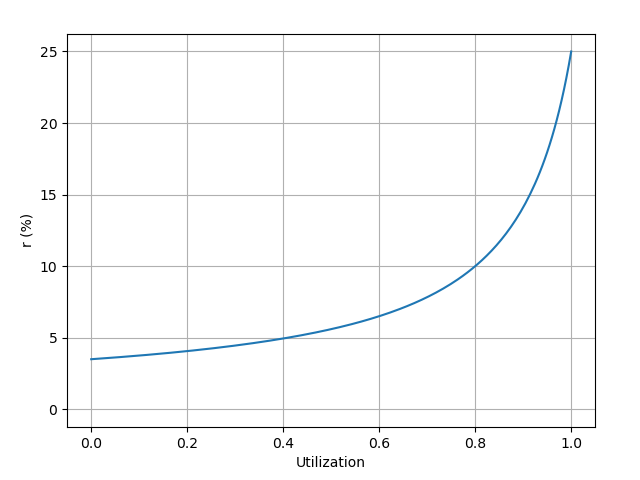
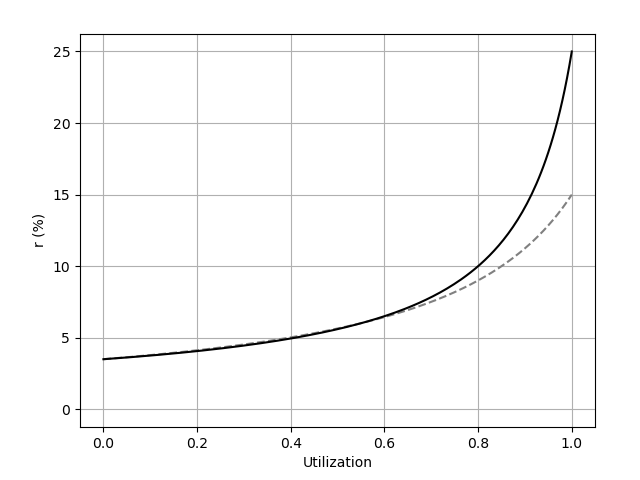
Update graphs

diff --git a/model/rate-secondary-susde.py b/model/rate-secondary-susde.py
@@ -1,29 +1,39 @@
 import pylab
 import numpy as np
 
-beta = 2.5
-alpha = 0.35
-u0 = 0.8
 
-r0 = 10
+def plot_rate(alpha, beta, u0, r0, *args, **kw):
+    u_inf = (beta - 1) * u0 / ((beta - 1) * u0 - (1 - u0) * (1 - alpha))
+    A = (1 - alpha) * (u_inf - u0) * u_inf / u0
+    r_minf = alpha - A / u_inf
+    print(f"""
+    alpha = {alpha}
+    beta = {beta}
+    u0 = {u0}
+    r0 = {r0}
+    """)
+    print(f"""
+    u_inf = {u_inf}
+    A = {A}
+    r_minf = {r_minf}
+    """)
 
-u_inf = (beta - 1) * u0 / ((beta - 1) * u0 - (1 - u0) * (1 - alpha))
-A = (1 - alpha) * (u_inf - u0) * u_inf / u0
-r_minf = alpha - A / u_inf
-print(f"""
-u_inf = {u_inf}
-A = {A}
-r_minf = {r_minf}
-""")
+    u = np.linspace(0, 1, 200)
+    r = r_minf + A / (u_inf - u)
+    r *= r0
+    pylab.plot(u, r, *args, **kw)
 
-u = np.linspace(0, 1, 200)
-r = r_minf + A / (u_inf - u)
-r *= r0
 
-pylab.plot(u, r)
-pylab.grid()
-pylab.xlabel('Utilization')
-pylab.ylabel('r (%)')
-pylab.xlim(-0.05, 1.05)
-pylab.ylim(-beta * r0 * 0.05, beta * r0 * 1.05)
-pylab.show()
+if __name__ == '__main__':
+    beta = 2.5
+    r0 = 10
+
+    plot_rate(0.35, 1.5, 0.85, 10, '--', c="gray")
+    plot_rate(0.35, 2.5, 0.8, 10, c="black")
+
+    pylab.grid()
+    pylab.xlabel('Utilization')
+    pylab.ylabel('r (%)')
+    pylab.xlim(-0.05, 1.05)
+    pylab.ylim(-beta * r0 * 0.05, beta * r0 * 1.05)
+    pylab.show()
